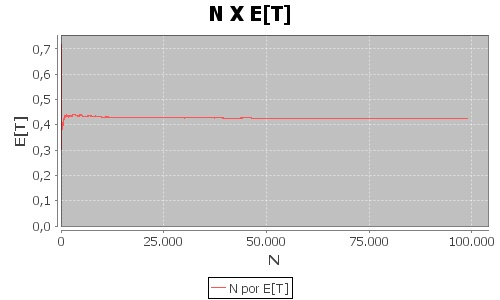
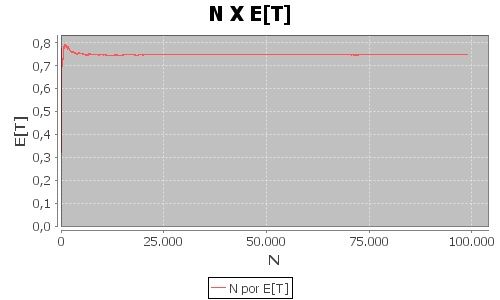
Ajustes na geração das estásticas e gráficos da simulação.

diff --git a/SimulacaoAD/src/br/ufrj/dcc/ad20122/math/StatisticsSample.java b/SimulacaoAD/src/br/ufrj/dcc/ad20122/math/StatisticsSample.java
@@ -113,7 +113,8 @@ public class StatisticsSample {
 	private ConfidenceInterval getMeansTConfidenceInterval95(double value) {
 		double significance = 0.95;
 
-		TDistribution tDist = new TDistribution(summaryStatisticsMeansT.getN() - 1);
+		TDistribution tDist = new TDistribution(
+				summaryStatisticsMeansT.getN() - 1);
 		double a = tDist.inverseCumulativeProbability(1.0 - significance / 2);
 		double confidence = a * summaryStatisticsMeansT.getStandardDeviation()
 				/ Math.sqrt(summaryStatisticsMeansT.getN());
@@ -184,8 +185,9 @@ public class StatisticsSample {
 	}
 
 	private String toStringWithSample() {
-		return "" + this.sample + " E[W]:" + this.getWMean() + " E[T]:"
-				+ this.getTMean() + ", Var[T]: " + this.getTVariance()
+		return "" + this.sample + " E[W]:" + this.getWMean() + " E[T] Chart:"
+				+ this.getMeansTMean() + " E[T]:" + this.getTMean()
+				+ ", Var[T]: " + this.getTVariance()
 				+ ", E[T] ConfidenceInterval: "
 				+ this.getMeansTConfidenceInterval95(this.getTMean())
 				+ ", Var[T] ConfidenceInterval: "
@@ -193,12 +195,13 @@ public class StatisticsSample {
 	}
 
 	private String toStringWithoutSample() {
-		return " E[W]:" + this.getWMean() + " E[T]:" + this.getMeansTMean()
-				+ ", Var[T]: " + this.getMeansTVariance()
+		return " E[T] Chart:" + " E[W]:" + this.getWMean()
+				+ this.getMeansTMean() + " E[T]:" + this.getTMean()
+				+ ", Var[T]: " + this.getTVariance()
 				+ ", E[T] ConfidenceInterval: "
-				+ this.getMeansTConfidenceInterval95(this.getMeansTMean())
+				+ this.getMeansTConfidenceInterval95(this.getTMean())
 				+ ", Var[T] ConfidenceInterval: "
-				+ this.getMeansTConfidenceInterval95(this.getMeansTVariance());
+				+ this.getMeansTConfidenceInterval95(this.getTVariance());
 
 	}
 

diff --git a/SimulacaoAD/src/br/ufrj/dcc/ad20122/Simulations.java b/SimulacaoAD/src/br/ufrj/dcc/ad20122/Simulations.java
@@ -75,7 +75,7 @@ public class Simulations {
 				}
 
 				User newUser2 = new User(nextService1, service2Exp.sample());
-				nextService2 = nextService1+ newUser2.getServiceTime();
+				nextService2 = nextService1 + newUser2.getServiceTime();
 				queue2.addFirst(newUser2);
 
 				if (queue1.isEmpty()) {
@@ -124,10 +124,10 @@ public class Simulations {
 			timesW.add(time1 + time2);
 		}
 
-		List<Double> timeT1Transient = timeW1.subList(TRANSIENT_VALUE,
+		List<Double> timeT1Transient = timeT1.subList(TRANSIENT_VALUE,
 				timeT1.size());
-		List<Double> timeT2Transient = timeW2.subList(TRANSIENT_VALUE,
-				timeT1.size());
+		List<Double> timeT2Transient = timeT2.subList(TRANSIENT_VALUE,
+				timeT2.size());
 
 		List<Double> timesT = new ArrayList<Double>();
 		for (int i = 0; i < sample.getSampleSize() - TRANSIENT_VALUE; i++) {
@@ -247,10 +247,10 @@ public class Simulations {
 			timesW.add(time1 + time2);
 		}
 
-		List<Double> timeT1Transient = timeW1.subList(TRANSIENT_VALUE,
+		List<Double> timeT1Transient = timeT1.subList(TRANSIENT_VALUE,
 				timeT1.size());
-		List<Double> timeT2Transient = timeW2.subList(TRANSIENT_VALUE,
-				timeT1.size());
+		List<Double> timeT2Transient = timeT2.subList(TRANSIENT_VALUE,
+				timeT2.size());
 
 		List<Double> timesT = new ArrayList<Double>();
 		for (int i = 0; i < sample.getSampleSize() - TRANSIENT_VALUE; i++) {
